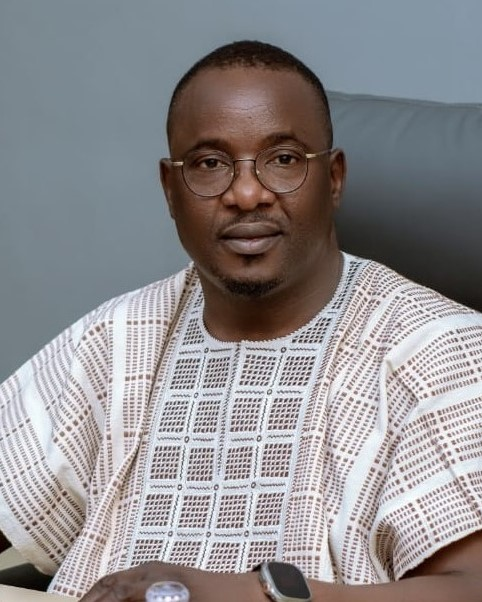
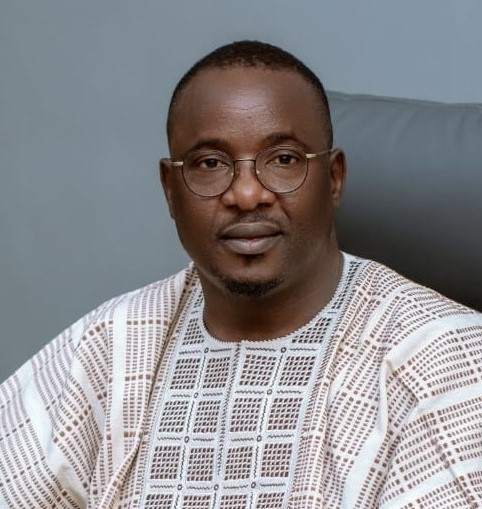
Merge branch 'main' et résolution des conflits

diff --git a/src/App.tsx b/src/App.tsx
@@ -157,12 +157,14 @@ function App() {
     return () => clearTimeout(timer);
   }, []);
 
+
   const handleContactSubmit = async (e: React.FormEvent, type: string) => {
     e.preventDefault();
     const dataToSend = { ...formData, type };
 
     try {
-      const response = await fetch('http:/localhost:5000/api/contact', {
+      const API_URL = import.meta.env.VITE_API_URL || 'http://localhost:5000';
+      const response = await fetch(`${API_URL}/api/contact`, {
         method: 'POST',
         headers: { 'Content-Type': 'application/json' },
         body: JSON.stringify(dataToSend),

diff --git a/src/Footer.tsx b/src/Footer.tsx
@@ -10,7 +10,8 @@ const Footer: React.FC = () => {
     if (!email) return;
 
     try {
-      const response = await fetch('http://localhost:5000/api/newsletter', {
+      const API_URL = import.meta.env.VITE_API_URL || 'http://localhost:5000';
+      const response = await fetch(`${API_URL}/api/newsletter`, {
         method: 'POST',
         headers: { 'Content-Type': 'application/json' },
         body: JSON.stringify({ email }),

diff --git a/src/main.tsx b/src/main.tsx
@@ -14,7 +14,7 @@ import ScrollToTop from './ScrollToTop'
 
 ReactDOM.createRoot(document.getElementById('root')!).render(
   <React.StrictMode>
-    <BrowserRouter basename="/ONGBusola-front">
+    <BrowserRouter basename="/">
       <ScrollToTop />
       <Routes>
         <Route path="/" element={<App />} />

diff --git a/vite.config.ts b/vite.config.ts
@@ -3,7 +3,7 @@ import react from '@vitejs/plugin-react'
 import path from 'path'
 
 export default defineConfig({
-  base: '/ONGBusola-front/',
+  base: '/',
   plugins: [react()],
   resolve: {
     alias: {